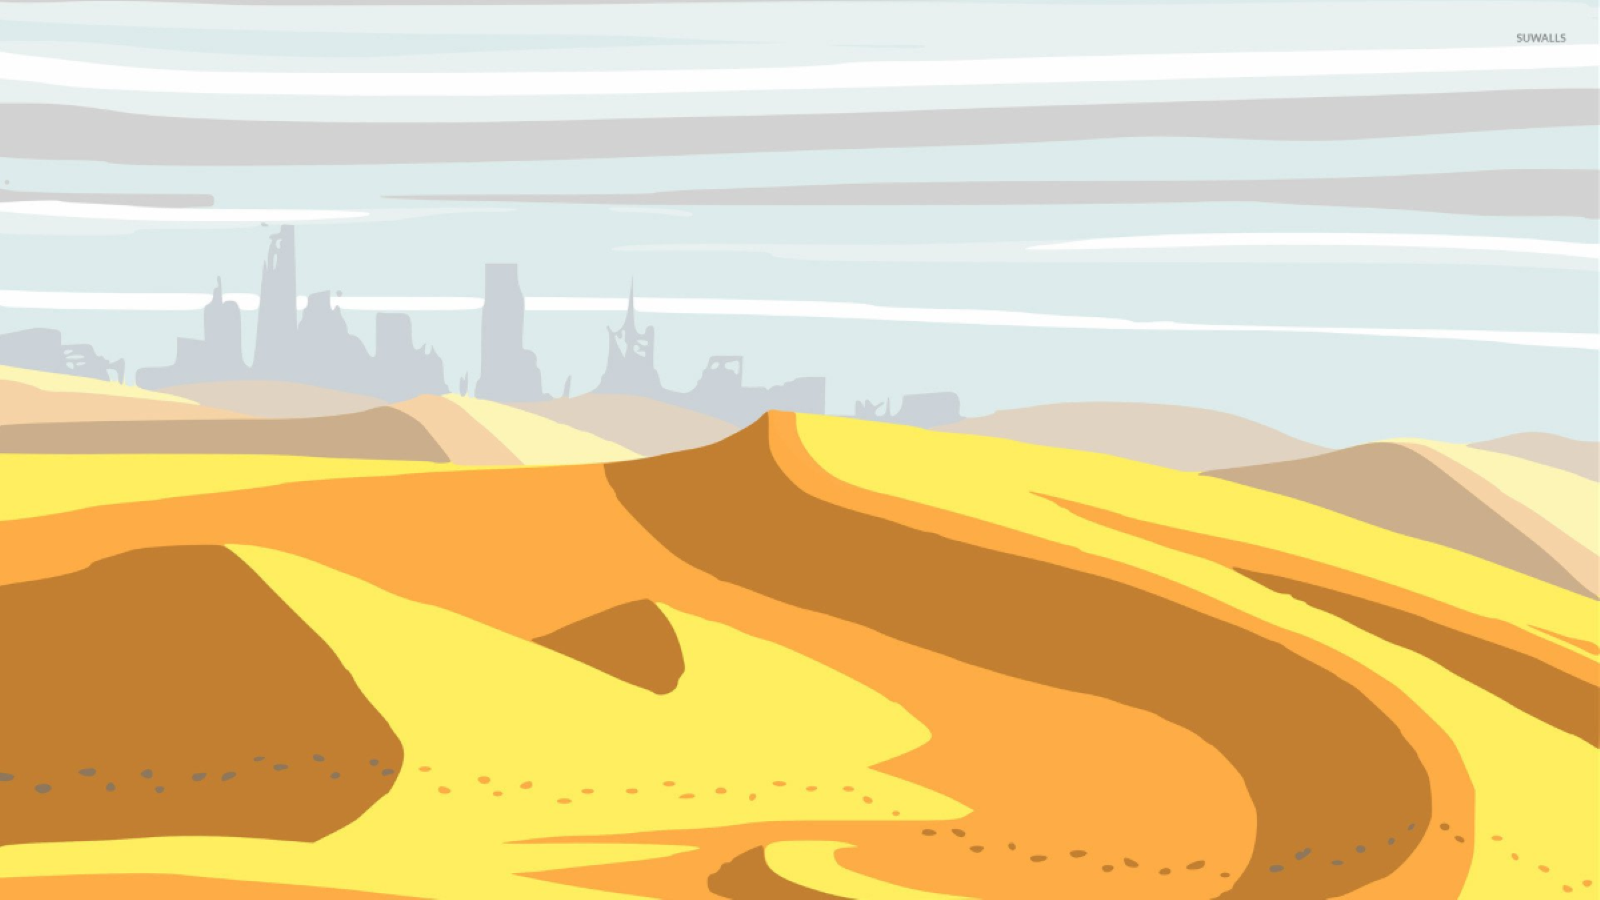
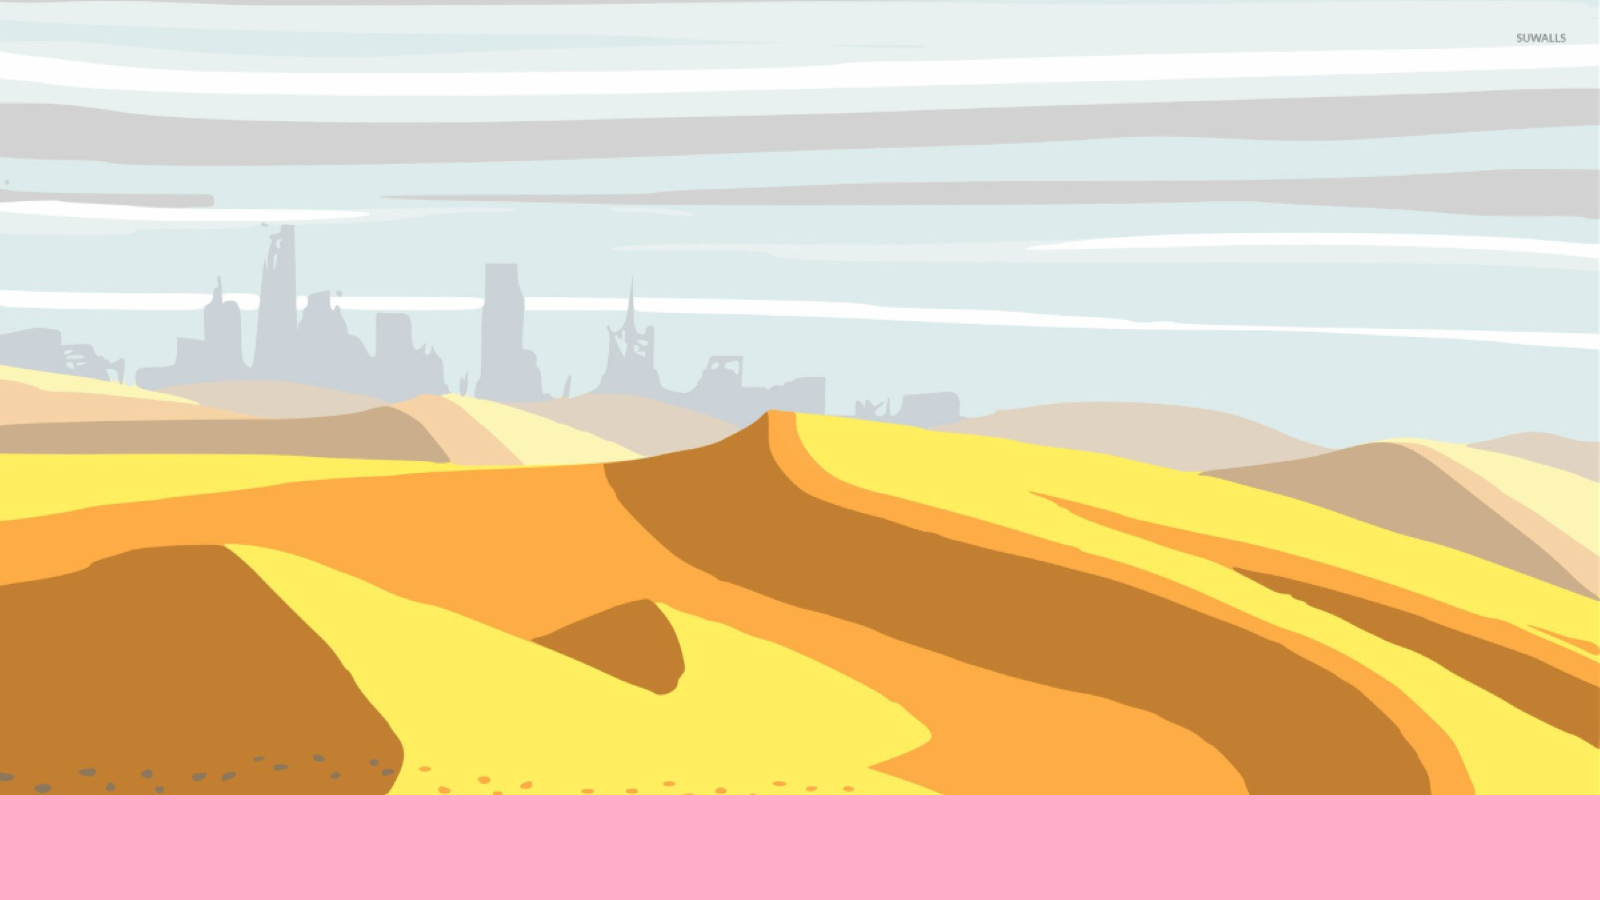
zoom on dialog + floor on background

Changed region(s): [[0.0, 0.8711, 1.0, 1.0]]

diff --git a/mock/script.js b/mock/script.js
@@ -1,7 +1,7 @@
 (function () {
 
 //VAR
-
+    var all_items = document.querySelector("*")
     var sprite = document.querySelector(".sprite")
     var person = document.querySelector(".person")
     var text1 = document.querySelector(".text1")
@@ -97,6 +97,7 @@
       person.style.width = person_size + "px";     
     } else if (event == 1){
       stop_background();
+      all_items.style.transform = "scale(1.5) translate(0%, -10%)"
       static = true
       sprite.classList.remove("walk-right");
       txt2.innerHTML = "Salam labas?"
@@ -113,6 +114,7 @@
       static = false;
       txt1.innerHTML = ""
       txt2.innerHTML = ""
+      all_items.style.transform = "scale(1) translate(0%, 0%)"
     }
 
     event += 1;
@@ -125,7 +127,9 @@
 //Points d'ancrages 
 
   function block() {
-    if (trans == maxtrans && progression >= 1200 && event == 1) {
+    if (event == 6) {
+      scrollable = true;
+    } else if (trans == maxtrans && progression >= 1200 && event == 1) {
       launchevent(event);  
     } else if (trans == maxtrans && progression >= 300 && event == 0) {
       launchevent(event);

diff --git a/mock/style.css b/mock/style.css
@@ -7,7 +7,7 @@ body {
     width: 102px;
     height: 148px;
     position: absolute;
-    bottom: 13.5%;
+    bottom: 11%;
   }
 
 
@@ -15,7 +15,7 @@ body {
     width: 0px;
     height: 183px;
     position: absolute;
-    bottom: 13.5%;
+    bottom: 11%;
     left: 100%;
     background-image: url(../img/pilot.png);
   }
@@ -32,14 +32,6 @@ body {
   top: 30%;
   left: 55%;
   font-size: xx-large;
-}
-
-.floor {
-  background-color: lightsalmon;
-  position: absolute;
-  top: 86%;
-  width: 100%;
-  height: 100%;
 }
   
 /*WALKING ANIMATION*/
@@ -119,7 +111,7 @@ body {
 
 .sliding-background {
   background: url("../img/desert.png") repeat-x;
-  height: 815px;
+  height: 950px;
   width: 5076px;
   animation: slide 60s linear infinite;
   background-size: 38% 100%;

diff --git a/mock/index.html b/mock/index.html
@@ -11,9 +11,7 @@
             </div>
 
             <div class="sprite right"></div>
-
-            <div class="floor"></div>
-
+            
             <div class="person"></div>
 
             <p id="text1" class="text1"></p>
